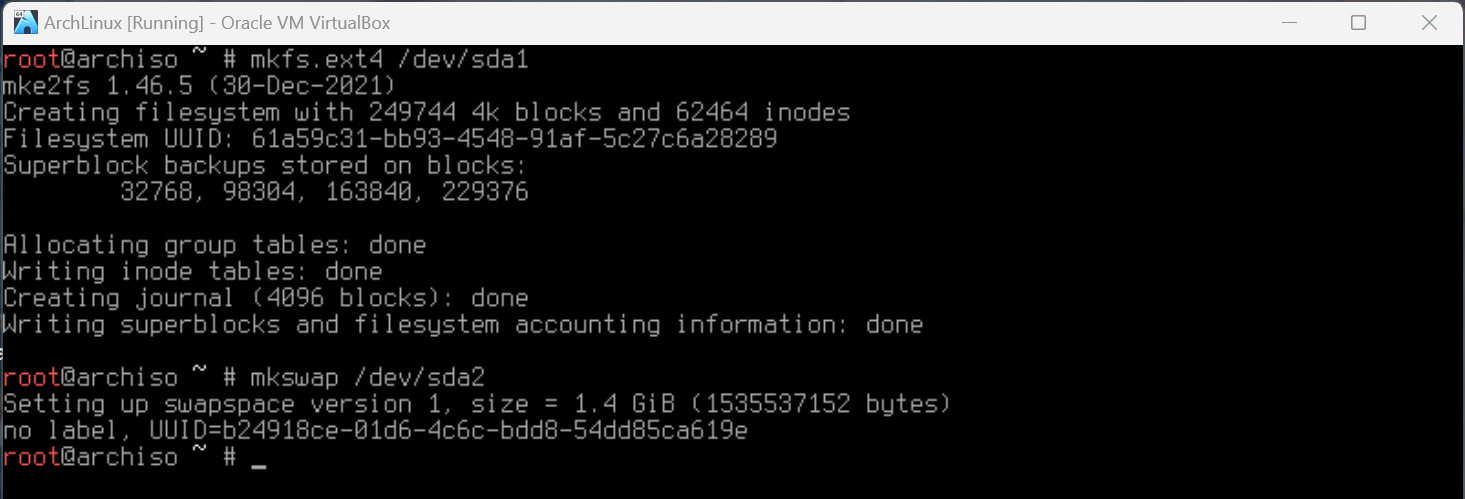
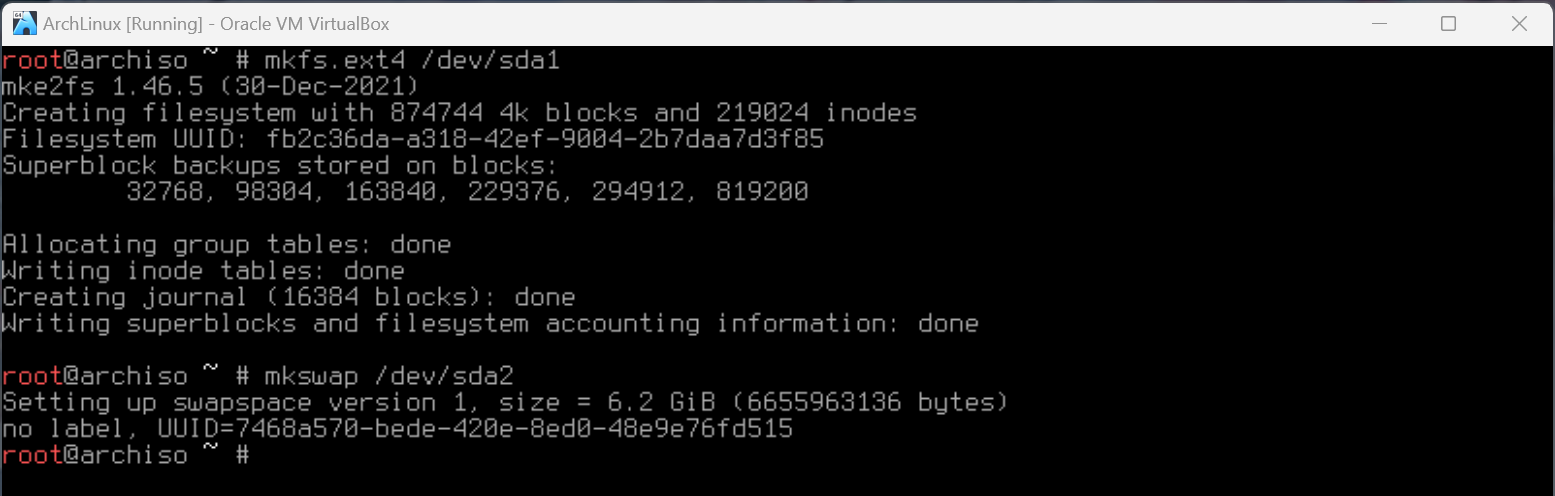
completed filesystem formatting section

diff --git a/README.md b/README.md
@@ -148,7 +148,7 @@ Section 1.5 of the ArchLinux Installation Guide.
 
 5. I will use the default partition number (1) and the First Sector set to default (2048), so hit `Enter` twice.
 
-4. The Last Sector will define the size of the partition, so I will set it to a random size, `7000`.
+4. The Last Sector will define the size of the partition, so I will set it to, 7000000, which creates about 3.3Gb of space.
 
 - **Note:** Set the partition size according to your needs.
 
@@ -161,7 +161,7 @@ Section 1.5 of the ArchLinux Installation Guide.
 	- partition type: primary
 	- partition number: 2
 	- First Sector: default (hit `Enter`)
-	- Last Sector: The size of your choice, I used 5000000, which creates about 1.5Gb of storage
+	- Last Sector: The size of your choice, I used 20000000, which creates about 6.2Gb of storage
 
 7. Enter `w` to save changes.
 
@@ -245,10 +245,6 @@ Section 1.5 of the ArchLinux Installation Guide.
 
 - Note: To view the list of packages available, visit this [Link](https://archlinux.org/packages/?name=man-pages)
 
-2. Since I will be installing the vim editor, I will also add it to the list of packages to be installed.
-
-- Command: `pacstrap -K /mnt base linux linux-firmware vim`
-
 The download should begin and the download progress should be similar to the image below.
 
 ![pacstrap command](images/ss15.png)
@@ -258,10 +254,16 @@ The download should begin and the download progress should be similar to the ima
 If you get the error message, `failed to synchronize all databases` try running the following commands in order:
 
 	```
-	pacman -Syu
+	pacman -Syy
+
+	pacman -S reflector
 	```
 
+or try running the command, `pacman -Syu` instead.
+
 When successful, the output should look similar to the image below.
+
+![download successful](images/ss20.png)
 
 
 
